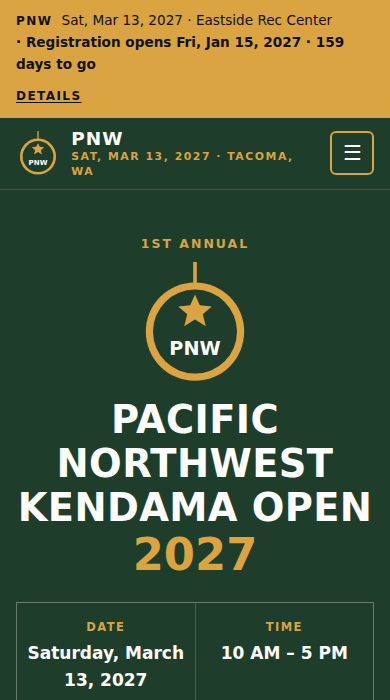
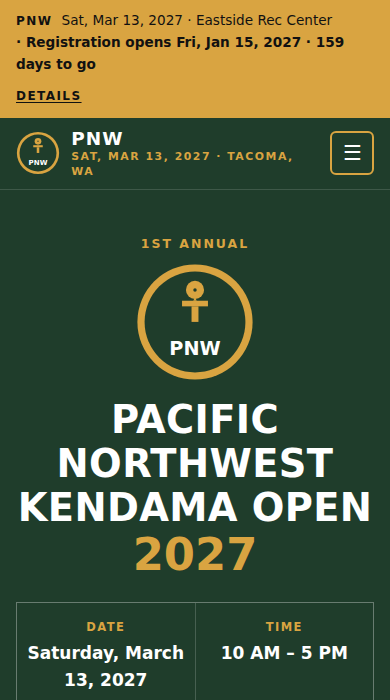
docs: document divisions and new presets; add them to the showcase
Claude-Session: https://claude.ai/code/session_01HXiFZgfTb5ADj4VUWjnfkA

Changed region(s): [[0.3385, 0.36, 0.6462, 0.54], [0.0308, 0.18, 0.1538, 0.24]]

diff --git a/showcase/index.html b/showcase/index.html
@@ -4,14 +4,14 @@
   <meta charset="UTF-8">
   <meta name="viewport" content="width=device-width, initial-scale=1">
   <title>Free Website Template for Yo-Yo & Skill Toy Contests</title>
-  <meta name="description" content="A free, open-source website template for yo-yo, kendama, and skill toy contests. Edit one file, publish on GitHub Pages for $0. Registration status, countdown, and results switch over by themselves.">
+  <meta name="description" content="A free, open-source website template for yo-yo, kendama, diabolo, spinning top, and skill toy contests. Edit one file, publish on GitHub Pages for $0. Registration status, countdown, and results switch over by themselves.">
   <meta name="robots" content="index, follow">
   <meta name="referrer" content="strict-origin-when-cross-origin">
   <meta name="theme-color" content="#1a2744">
   <meta http-equiv="Content-Security-Policy" content="default-src 'self'; script-src 'self'; style-src 'self'; img-src 'self' data:; font-src 'self'; frame-src 'none'; connect-src 'self'; base-uri 'self'; form-action 'none'; object-src 'none'; upgrade-insecure-requests">
   <meta property="og:type" content="website">
   <meta property="og:title" content="Free Website Template for Yo-Yo & Skill Toy Contests">
-  <meta property="og:description" content="Edit one file, publish on GitHub Pages, $0. Yo-yo (NYYL rules), kendama, and trick battle presets.">
+  <meta property="og:description" content="Edit one file, publish on GitHub Pages, $0. Yo-yo (NYYL rules), kendama, diabolo, spin top, mixed skill toy, and trick battle presets.">
   <link rel="icon" href="favicon.svg" type="image/svg+xml">
   <link rel="stylesheet" href="showcase.css">
 </head>
@@ -20,7 +20,7 @@
 
 <header class="top">
   <div class="wrap top-inner">
-    <a class="brand" href="index.html"><img src="favicon.svg" alt="" width="36" height="36"><span>Yo-Yo Contest Site Template</span></a>
+    <a class="brand" href="index.html"><img src="favicon.svg" alt="" width="36" height="36"><span>Skill Toy Contest Site Template</span></a>
     <nav aria-label="Page sections">
       <a href="#examples">Examples</a>
       <a href="#deploy">Deploy</a>
@@ -35,7 +35,7 @@
 <section class="hero">
   <div class="wrap">
     <p class="eyebrow">Free &bull; Open source &bull; No coding</p>
-    <h1>A website for your yo-yo contest</h1>
+    <h1>A website for your skill toy contest</h1>
     <p class="lede">Divisions, schedule, rules, venue, sponsors, and results, from one settings file.
       The site follows your contest's calendar by itself: "registration opens soon", then the register button,
       then "registration closed", then "today!", then a "that's a wrap" page with your results.
@@ -74,6 +74,24 @@
         <span class="tag tag-demo">Demo</span>
         <strong>Kendama Contest</strong>
         <span><code>kendama-contest</code> preset, registration opens soon</span>
+      </a>
+      <a class="example" href="examples/demo-diabolo-contest/index.html">
+        <img src="images/demo-diabolo-contest.png" alt="Home page of the diabolo contest demo site" width="390" height="700" loading="lazy">
+        <span class="tag tag-demo">Demo</span>
+        <strong>Diabolo Contest</strong>
+        <span><code>diabolo-contest</code> preset, registration open, combo price</span>
+      </a>
+      <a class="example" href="examples/demo-spintop-contest/index.html">
+        <img src="images/demo-spintop-contest.png" alt="Home page of the spinning top contest demo site" width="390" height="700" loading="lazy">
+        <span class="tag tag-demo">Demo</span>
+        <strong>Spin Top Contest</strong>
+        <span><code>spintop-contest</code> preset, longest spin and ring battles</span>
+      </a>
+      <a class="example" href="examples/demo-skill-toy-contest/index.html">
+        <img src="images/demo-skill-toy-contest.png" alt="Home page of the mixed skill toy contest demo site" width="390" height="700" loading="lazy">
+        <span class="tag tag-demo">Demo</span>
+        <strong>Skill Toy Contest</strong>
+        <span><code>skill-toy-contest</code> preset, a division for every toy</span>
       </a>
       <a class="example" href="examples/demo-trick-battle/index.html">
         <img src="images/demo-trick-battle.png" alt="Home page of the trick battle demo site" width="390" height="700" loading="lazy">
@@ -165,6 +183,9 @@ confirm the GitHub Pages site is live.</code></pre>
         <tbody>
           <tr><td><code>yoyo-contest</code></td><td>A yo-yo contest (default)</td><td>1A, X Division, and Sport divisions; NYYL freestyle rules and a scoring explainer; music upload steps</td></tr>
           <tr><td><code>kendama-contest</code></td><td>A kendama contest</td><td>Beginner, Intermediate, and Open trick ladders plus a battle bracket</td></tr>
+          <tr><td><code>diabolo-contest</code></td><td>A diabolo contest</td><td>Single Diabolo, Multi-Diabolo styles (2D, 3D+, Vertax, fixed axle), Beginner to house music, and a trick ladder; ceiling and toss safety rules</td></tr>
+          <tr><td><code>spintop-contest</code></td><td>A spinning top contest</td><td>Trick Freestyle (string and hand-spun styles), Junior Tricks (12 and under), Longest Spin, and Ring Battle</td></tr>
+          <tr><td><code>skill-toy-contest</code></td><td>A mixed contest with several toys</td><td>A division for each toy: yo-yo, kendama ladder, diabolo, spin top, open skill toy, plus a beginner division for any toy</td></tr>
           <tr><td><code>trick-battle</code></td><td>A casual club battle or skill toy jam</td><td>Beginner, Open, and Kendama brackets; side games; simple battle rules</td></tr>
         </tbody>
       </table>
@@ -180,7 +201,7 @@ confirm the GitHub Pages site is live.</code></pre>
     <ul class="features">
       <li><strong>9 pages</strong>: Home, Schedule, Register, Rules, Venue, Sponsors, Results, FAQ, Terms</li>
       <li><strong>A site that follows the calendar</strong>: registration opens and closes, a countdown, contest day, and "that's a wrap", rebuilt daily</li>
-      <li><strong>Divisions &amp; fees</strong>, guest events with their own sign-up, and music upload steps</li>
+      <li><strong>Divisions &amp; fees</strong>: any number, with styles, age limits, combo prices, and music only where it's needed</li>
       <li><strong>Rules &amp; scoring</strong> explained in plain English, with sources</li>
       <li><strong>Sponsors</strong> by tier, partners and friends, and sponsorship packages with slots</li>
       <li><strong>Results</strong>: podiums by division, stats, and links to standings, photos, and video</li>
@@ -196,7 +217,7 @@ confirm the GitHub Pages site is live.</code></pre>
     <h2>Questions</h2>
     <details><summary>Does it handle registration and payments?</summary><p>No. The site links to whatever sign-up you use: a Google Form, a Stripe payment link, Eventbrite, or your own app. The Register button appears and disappears on your dates.</p></details>
     <details><summary>What happens after the contest?</summary><p>The day after, the home page switches to "that's a wrap" with your wrap-up numbers and links. Fill in the results section of <code>site.jsonc</code> and the Results page shows each division's podium.</p></details>
-    <details><summary>Do I have to use NYYL rules?</summary><p>No. The <code>yoyo-contest</code> preset starts from them because most U.S. contests do. Copy the <code>rules</code> section into <code>site.jsonc</code> and write your own.</p></details>
+    <details><summary>Do I have to use NYYL rules?</summary><p>No. The <code>yoyo-contest</code> preset starts from them because most U.S. yo-yo contests do. The diabolo, spin top, and mixed presets use a simple, typical judging sheet instead. Copy the <code>rules</code> section into <code>site.jsonc</code> and write your own.</p></details>
     <details><summary>Are the terms legal advice?</summary><p>No. They're a plain-English starting point from a real contest. Have someone check them against your venue's requirements and local law.</p></details>
     <details><summary>Why is this separate from the club template?</summary><p>Clubs and contests rarely share the same organizers, dates, or audience. Two small templates are easier to run than one big one.</p></details>
     <details><summary>Is it really free?</summary><p>Yes. The template is public domain, and GitHub Pages hosts public sites for free.</p></details>
@@ -219,7 +240,7 @@ confirm the GitHub Pages site is live.</code></pre>
   <div class="wrap">
     <p>Public domain (<a href="https://github.com/dmvthrowers/yoyo-contest-template/blob/main/LICENSE" rel="noopener noreferrer">Unlicense</a>).
       Built by the volunteers behind the <a href="https://dmvthrowers.club/vsyc26.html" rel="noopener noreferrer">Virginia State Yo-Yo Contest</a>.
-      Not affiliated with any yo-yo league, brand, or shop.</p>
+      Not affiliated with any skill toy league, brand, or shop.</p>
     <p><a href="https://github.com/dmvthrowers/yoyo-contest-template" rel="noopener noreferrer">Source on GitHub</a> &bull;
       <a href="https://github.com/dmvthrowers/yoyo-contest-template/issues" rel="noopener noreferrer">Report a problem</a></p>
     <p class="credit">Template by Brandon Rogers &amp; <a href="https://dmvthrowers.club/" rel="noopener noreferrer">DMV Throwers</a></p>

diff --git a/scripts/build_showcase.py b/scripts/build_showcase.py
@@ -18,6 +18,9 @@ EXAMPLES = [                               # (folder name, settings file)
     ("vsyc-26", "examples/vsyc-26.jsonc"),
     ("demo-yoyo-contest", "site.jsonc"),
     ("demo-kendama-contest", "examples/demo-kendama-contest.jsonc"),
+    ("demo-diabolo-contest", "examples/demo-diabolo-contest.jsonc"),
+    ("demo-spintop-contest", "examples/demo-spintop-contest.jsonc"),
+    ("demo-skill-toy-contest", "examples/demo-skill-toy-contest.jsonc"),
     ("demo-trick-battle", "examples/demo-trick-battle.jsonc"),
 ]
 

diff --git a/README.md b/README.md
@@ -1,6 +1,7 @@
-# Yo-Yo Contest Website Template
+# Yo-Yo & Skill Toy Contest Website Template
 
-A free, fast, mobile-friendly website for a **yo-yo contest, kendama contest, or skill toy trick battle**.
+A free, fast, mobile-friendly website for a **yo-yo, kendama, diabolo, or spinning top contest, a mixed
+skill toy contest, or a casual trick battle**.
 Edit one settings file, and GitHub builds and publishes the site for you. No coding, servers, or monthly fees.
 
 ![Four contest sites built from this template: VSYC-26 and three demos](.github/preview.png)
@@ -26,9 +27,12 @@ a "page not found" page.
   | The day after | "That's a wrap · Thank you", with your wrap-up numbers | Closed, thank-you note |
 
   Set `contest.status` to `"postponed"` or `"cancelled"` and every page says so.
-- **Divisions, fees, and music upload steps**, plus guest events with their own sign-up.
+- **Divisions your way**: any number, each with its own routine length, fee, age limits, and styles
+  (like X Division's 2A–5A), plus combo prices. Music upload steps appear only for divisions that use
+  music; trick ladders and battles don't. Guest events get their own sign-up.
 - **Rules and scoring in plain English.** The yo-yo preset explains the NYYL freestyle rules: clickers,
-  normalization, the four evaluation categories, and major deductions.
+  normalization, the four evaluation categories, and major deductions. The other presets use typical
+  formats for their toy, written so you can change them.
 - **Sponsors by tier**, partners and friends, and sponsorship packages with slot counts and a funding goal.
 - **Results**: a podium for each division, headline stats, and links to standings, photos, and video.
 - **Venue page** with parking and food, vendor rules, venue photos, and hotel room blocks.
@@ -66,16 +70,21 @@ Open **`site.jsonc`**, click the **pencil icon**, and work top to bottom. Every 
    | --- | --- | --- |
    | `yoyo-contest` (default) | A yo-yo contest | 1A, X Division, and Sport divisions; NYYL freestyle rules and scoring; music upload steps |
    | `kendama-contest` | A kendama contest | Beginner, Intermediate, and Open trick ladders, plus a battle bracket |
+   | `diabolo-contest` | A diabolo contest | Single Diabolo, Multi-Diabolo styles (2D, 3D+, Vertax, fixed axle), Beginner to house music, a trick ladder; ceiling and toss safety |
+   | `spintop-contest` | A spinning top contest | Trick Freestyle (string and hand-spun), Junior Tricks (12 and under), Longest Spin, Ring Battle |
+   | `skill-toy-contest` | A mixed contest, several toys | One division per toy (yo-yo, kendama ladder, diabolo, spin top, open skill toy) plus Beginner for any toy |
    | `trick-battle` | A casual club battle or skill toy jam | Beginner, Open, and Kendama brackets; side games; simple battle rules |
 
 2. **`contest`**: name, edition, date, hours, city, admission, organizer, presenting sponsor.
-3. **`registration`**: when it opens and closes, your sign-up link, fees, and music instructions.
+3. **`registration`**: when it opens and closes, your sign-up link, fees, combo prices, and the music deadline.
 4. **`venue`**: name, address, parking and food, vendor rules, hotels.
 5. **`sponsors`** and **`partners`**, plus prices and a goal in **`sponsorship`**.
 6. **`contact`**: a shared contest email and social links.
 
-Divisions, the schedule, rules, FAQ, and terms come from the preset. To change any of them, copy
-that section from `presets/<your preset>.json` into `site.jsonc` and edit it there.
+Divisions, gear ("What to Bring"), the schedule, rules, FAQ, terms, colors, and the logo's toy come
+from the preset. To change any of them, copy that section from `presets/<your preset>.json` into
+`site.jsonc` and edit it there. To drop a preset section entirely, set it to `false`
+(for example `"gear": false`).
 
 > **Shortcut:** [`examples/vsyc-26.jsonc`](examples/vsyc-26.jsonc) is a complete real contest, results
 > and all. Copy it over `site.jsonc` and change the details.
@@ -117,8 +126,10 @@ The build prints the current status line, so you can check every stage before it
 | Name, edition, date, hours, admission | `site.jsonc` → `contest` | Two-day contest? Set `end_date`. |
 | Postponed or cancelled | `site.jsonc` → `contest.status` | Every page and search engines update. |
 | Registration dates, link, fees | `site.jsonc` → `registration` | The site never takes payments; it links to your form. |
-| Music file rules and deadline | `site.jsonc` → `registration.music` | |
-| Divisions | copy `divisions` from the preset into `site.jsonc` | `code`, `name`, `text`, `tags`. |
+| Music deadline and upload link | `site.jsonc` → `registration.music` | Steps come from the preset; copy `steps` to change them. `"music": false` hides it. |
+| Combo prices | `site.jsonc` → `registration.combos` | `{ "name": "Any two divisions", "fee": "$30" }` |
+| Divisions | copy `divisions` from the preset into `site.jsonc` | See [Divisions](#divisions). |
+| What to bring | copy `gear` from the preset into `site.jsonc` | `title`, `intro`, `items`. |
 | Guest events (battles, side contests) | `site.jsonc` → `guest_events` | Shown on Register with their own link. |
 | The day's schedule | copy `schedule` from the preset into `site.jsonc` | Times are plain text, like "10:30 AM". |
 | Rules and scoring | copy `rules` from the preset into `site.jsonc` | Keep the `sources` links. |
@@ -128,10 +139,46 @@ The build prints the current status line, so you can check every stage before it
 | FAQ | `site.jsonc` → `faq_extra` | Or copy `faq` from the preset to replace it. |
 | Terms | copy `terms` from the preset into `site.jsonc` | Have someone check them. See below. |
 | Colors and corners | `site.jsonc` → `theme` | `"corners"`: `sharp`, `soft`, or `round`. The build warns if text would be hard to read. |
-| Logo | add `assets/emblem.svg` | Otherwise a yo-yo-and-star logo with your initials is generated. |
+| Logo | add `assets/emblem.svg` | Otherwise a logo with your short name is generated. Pick its toy with `theme.emblem`: `yoyo`, `kendama`, `top`, `diabolo`, or `star`. |
 | Social-share image | add `assets/og-card.png` (1200×630) | |
 | A whole extra section on a page | `content/<page>.html` | See [content/README.md](content/README.md). |
 | Page layout or new pages | `build.py` | One short function per page. |
+
+---
+
+## Divisions
+
+Each preset comes with divisions. To change them, copy the whole `divisions` list from your preset
+into `site.jsonc`. You can have any number. Only `name` is required:
+
+```jsonc
+"divisions": [
+  { "code": "1A", "name": "1A Division", "text": "Single yo-yo on a string.",
+    "length": "2-min freestyle", "fee": "$20", "music": true, "tags": ["Open"] },
+  { "code": "X", "name": "X Division", "text": "Pick one style when you register.",
+    "styles": [ { "code": "2A", "name": "Looping" }, { "code": "4A", "name": "Offstring" } ],
+    "length": "2-min freestyle", "music": true },
+  { "code": "Jr", "name": "Junior", "ages": { "max": 12 }, "length": "90-sec routine", "music": "house" },
+  { "code": "KD", "name": "Kendama Ladder", "format": "Trick ladder", "music": false }
+]
+```
+
+| Field | What it does |
+| --- | --- |
+| `code` | Short code shown big on the card, like `1A` or `KD`. Also used by `registration.fees`. |
+| `name`, `text` | The division's name and a sentence or two about it. |
+| `format` | Optional label: `Freestyle`, `Trick ladder`, `Bracket`, `Timed`… |
+| `length` | Routine or round length, like `2-min freestyle`. Leave it out for ladders and battles. |
+| `fee` | Shown on the card and, if `registration.fees` is empty, in the fee table. |
+| `ages` | `"Under 13"`, or `{ "min": 8, "max": 12 }` → "Ages 8–12". Leave it out for all ages. |
+| `music` | `true`: competitors send their own track. `false`: no music. `"house"`: house music, nothing to send. The Music Upload section appears only if some division uses its own music, and says which. |
+| `styles` | Styles within the division. Plain codes (`["2A", "3A"]`) show as one label; `{ "code", "name", "text" }` also lists each style on the card. |
+| `tags` | Any other short labels. |
+
+**Fees.** `registration.fees` is a list of rows: `{ "name": "Spectators", "fee": "Free" }`, or
+`{ "division": "1A", "fee": "$20" }` to use that division's name and show the fee on its card. Leave it
+`[]` and the table lists each division's own `fee`, then `registration.combos`, then
+`registration.spectators` if you set it. The build warns if a fee row names a division code that doesn't exist.
 
 ---
 
@@ -172,6 +219,8 @@ there so the stages switch over on time.
 - Turn on two-factor login for your GitHub account.
 - League, brand, and shop names in the presets are used only to describe rules and link to their
   sites. This template isn't affiliated with or endorsed by any league, brand, or shop.
+- The kendama, diabolo, spin top, mixed, and battle presets describe *typical* formats, not any
+  organization's official rules. Edit them to match how your contest runs.
 
 ---
 
@@ -180,14 +229,15 @@ there so the stages switch over on time.
 ```
 site.jsonc              ← your contest settings (start here)
 presets/                ← starting divisions, rules, schedule, FAQ, terms, sponsor tiers
-  yoyo-contest.json  kendama-contest.json  trick-battle.json
+  yoyo-contest.json  kendama-contest.json  diabolo-contest.json
+  spintop-contest.json  skill-toy-contest.json  trick-battle.json
 assets/                 ← copied to the site as-is (style.css, site.js, images/venue/)
 content/                ← optional extra HTML for any page
 build.py                ← builds _site/ (standard Python, no installs)
 scripts/check_site.py   ← checks the built site (links, accessibility, security)
 .github/workflows/deploy.yml  ← builds, checks, and publishes on every change, plus daily
 AGENTS.md               ← instructions for AI coding agents
-examples/               ← finished settings files (VSYC-26 plus demos)
+examples/               ← finished settings files (VSYC-26 plus a demo for each preset)
 showcase/, scripts/build_showcase.py  ← the template's own showcase page (safe to delete in your copy)
 ```
 

diff --git a/AGENTS.md b/AGENTS.md
@@ -1,27 +1,32 @@
 # Instructions for AI coding agents
 
-You're helping someone launch a website for a yo-yo contest, kendama contest, or skill toy trick battle
-from this template. The human-facing guide is [README.md](README.md). Read it, then follow this.
+You're helping someone launch a website for a yo-yo, kendama, diabolo, or spinning top contest, a mixed
+skill toy contest, or a casual trick battle from this template. The human-facing guide is [README.md](README.md). Read it, then follow this.
 
 ## Goal
 Get a correct, live contest site in one session with as few human steps as possible.
 
 ## Steps
 1. **Collect facts from the user**:
-   - preset (`yoyo-contest`, `kendama-contest`, `trick-battle`)
+   - preset (`yoyo-contest`, `kendama-contest`, `diabolo-contest`, `spintop-contest`, `skill-toy-contest`,
+     `trick-battle`)
    - contest name, edition, date (and end date), hours, city, region, and time zone
    - admission for spectators, the organizer, and any presenting sponsor
    - registration open and close dates, the sign-up link, and fees per division
-   - divisions and routine lengths (if they differ from the preset), guest events, and the day's schedule
-   - music file rules and deadline
+   - divisions (if they differ from the preset): code, name, routine length, fee, age limits, styles,
+     and whether each one uses the competitor's own music, house music, or none; any combo prices
+   - guest events and the day's schedule
+   - music file rules and deadline (only if some division uses the competitor's own music)
+   - what competitors should bring (gear), if it differs from the preset
    - venue name, space, address, parking, vendor rules, and hotel blocks
    - sponsors by tier, partners, and sponsorship package prices and slots
    - a shared contact email and social links
 
    Never invent facts. Leave a value empty (`""`), or use "TBD", rather than guess.
 2. **Edit `site.jsonc` only** for content. `examples/vsyc-26.jsonc` is a complete real contest; use it
-   as a model. To change preset sections (divisions, schedule, rules, FAQ, terms), copy the section
-   into `site.jsonc`; don't edit the preset.
+   as a model. To change preset sections (divisions, gear, schedule, rules, FAQ, terms), copy the section
+   into `site.jsonc`; don't edit the preset. Set a section to `false` to drop it. The division fields are
+   documented in README "Divisions".
 3. **Check every stage.** Run the build with `--today` set before registration opens, while it's open,
    after it closes, on contest day, and the day after. Each build prints the status line. Confirm
    the dates with the user.
@@ -45,6 +50,10 @@ facts the user gives you. For next year, update the dates and clear `results` an
   new legal promises.
 - **Rules accuracy:** the yo-yo preset summarizes the NYYL freestyle rules and links to the source.
   Don't add numbers (multipliers, routine lengths) the user hasn't confirmed from the current rules.
+  The other presets describe typical formats, not any organization's official rules. Never present
+  them as an official ruleset, and don't invent a league, sanctioning body, or point system.
+- **Toy wording** (gear, equipment, music, safety) belongs in the preset or `site.jsonc`, never in
+  `build.py`. Keep `build.py`'s own text neutral so every toy works.
 - **Security:**
   - No inline `<script>`, `<style>`, `style=""`, or `on*=` handlers. The CSP blocks them and the check fails.
   - No `http://` links, no trackers, embeds, or third-party scripts unless the user asks. If they do,
@@ -54,6 +63,9 @@ facts the user gives you. For next year, update the dates and clear `results` an
   `theme.corners`, not `style.css`, unless asked.
 - **Consistency:** every page shares one header (with the status bar) and footer. The check fails if they differ.
 - **Pages:** each page is one `page_<slug>()` method in `build.py`, listed in `self.pages`.
+- **Presets:** a new preset is one `presets/<name>.json` with the same sections as the others. Add a
+  demo in `examples/`, list it in `scripts/build_showcase.py`, the showcase page, README, and here, and
+  build it at every stage with `--today`.
 - **Showcase:** `showcase/`, `examples/`, and `scripts/build_showcase.py` only run in the original
   template repository. Ignore them (or delete them) in a user's copy.
 - **No dependencies:** keep `build.py` and `scripts/check_site.py` standard-library Python 3.9+.
